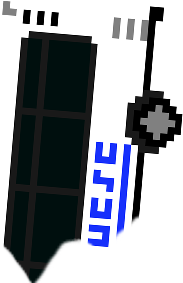
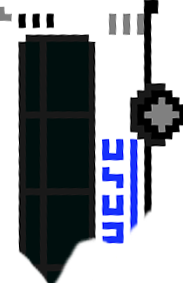
added more toilets

Changed region(s): [[0.0, 0.0, 1.0, 1.0]]

diff --git a/js/state/play.js b/js/state/play.js
@@ -56,6 +56,8 @@ play.prototype = {
 		let platforms = this.platform.create(800, 682, 'bus');
 		platforms.body.kinematic = true;
 		platforms.body.debug = true;
+		platforms.body.clearShapes();
+		platforms.body.addRectangle(394, 176);
 
 		platforms = this.platform.create(1240, 722, 'rcar');
 		platforms.body.kinematic = true;
@@ -93,6 +95,8 @@ play.prototype = {
 
 		platforms = this.platform.create(3520, 622, 'bus');
 		platforms.body.kinematic = true;
+		platforms.body.clearShapes();
+		platforms.body.addRectangle(394, 176);
 		platforms.body.debug = true;
 		platforms.body.angle = 16;
 		platforms.angle = 180;
@@ -157,7 +161,9 @@ play.prototype = {
 
 		platforms = this.platform.create(6730, 400, 'wreckB');
 		platforms.body.kinematic = true;
-		platforms.body.angle = 90;
+		platforms.body.clearShapes();
+		platforms.body.addRectangle(160, 276);
+		platforms.body.angle = 80;
 		platforms.body.debug = true;
 
 		this.platform.forEach(function(plat) {
@@ -170,10 +176,35 @@ play.prototype = {
 		this.toil.physicsBodyType = Phaser.Physics.P2JS;
 		this.toil.enableBody = true;
 
-		let toilets = new Toilet(game, 297, 746, 'toilet');
+		let toilets = new Toilet(game, 815, 559, 'toilet');
 		game.add.existing(toilets);
 		this.toil.add(toilets);
 		toilets.body.kinematic = true;
+		toilets.body.debug = true;
+
+		toilets = new Toilet(game, 1472, 224, 'toilet');
+		game.add.existing(toilets);
+		this.toil.add(toilets);
+		toilets.body.kinematic = true;
+		toilets.body.debug = true;
+
+		toilets = new Toilet(game, 3087, 756, 'toilet');
+		game.add.existing(toilets);
+		this.toil.add(toilets);
+		toilets.body.kinematic = true;
+		toilets.body.debug = true;
+
+		toilets = new Toilet(game, 6129, 680, 'toilet');
+		game.add.existing(toilets);
+		this.toil.add(toilets);
+		toilets.body.kinematic = true;
+		toilets.body.debug = true;
+
+		toilets = new Toilet(game, 6767, 275, 'toilet');
+		game.add.existing(toilets);
+		this.toil.add(toilets);
+		toilets.body.kinematic = true;
+		toilets.body.angle = -10;
 		toilets.body.debug = true;
 
 		// player

diff --git a/js/chr/toilet.js b/js/chr/toilet.js
@@ -9,7 +9,7 @@ function Toilet(game, x, y, key) {
 
 	// physics crap
 	game.physics.p2.enable(this);
-	this.body.fixedRotation = true;
+	
 	//this.game.physics.p2.gravity.y = 300;
 	this.body.collideWorldBounds = true;
 	
@@ -36,7 +36,7 @@ Toilet.prototype.toiletmeter = function(){
 Toilet.prototype.update = function() {
 
 	if(this.x > player.x -5 && this.x < player.x +5
-		&& this.y > player.y -5 && this.y < player.y +5){
+		&& this.y > player.y -10 && this.y < player.y +10){
 		this.toiletmeter();
 	}
 }

diff --git a/js/chr/p2layer.js b/js/chr/p2layer.js
@@ -7,7 +7,7 @@ function P2layer(game, key, frame, bulletKey) {
 	//Phaser.Sprite.call(this, game, 30, 500, key);
 	//Phaser.Sprite.call(this, game, 30, 100, key);
 	//for level 2 testing
-	Phaser.Sprite.call(this, game, 30, 50, key);
+	Phaser.Sprite.call(this, game, 6600, 100, key);
 	// Animation settings
 	this.animations.add('idle', [0,1], 2);
 	this.animations.add('jump', [2, 3, 4, 5, 4, 3, 2, 0], 15);
